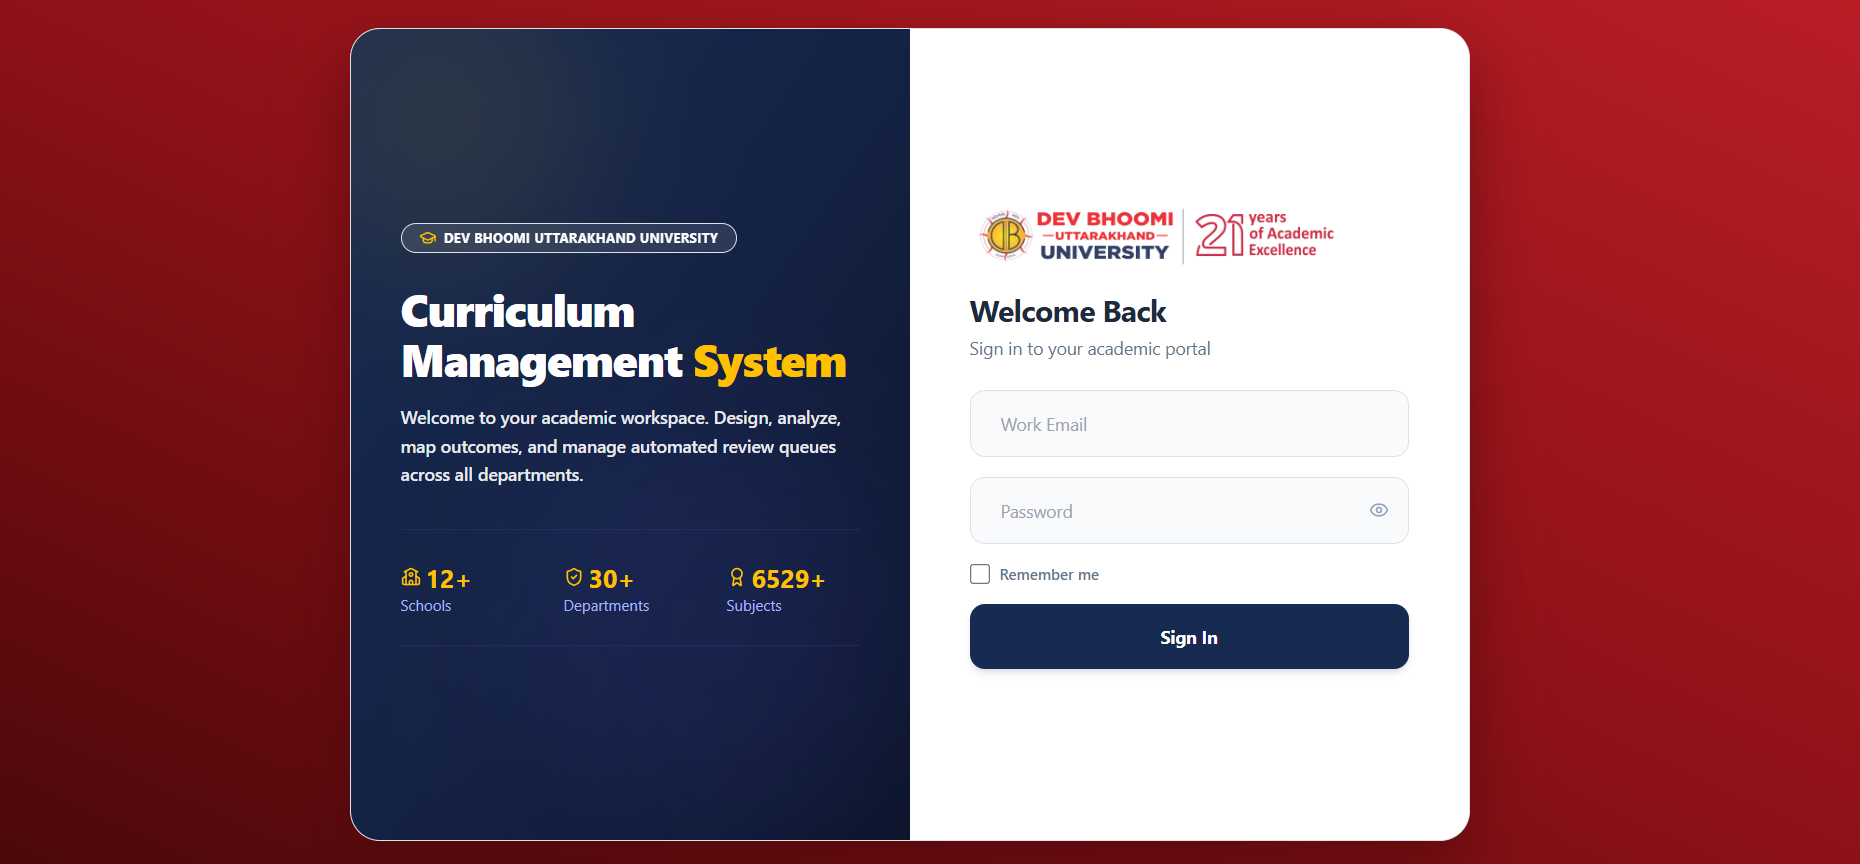
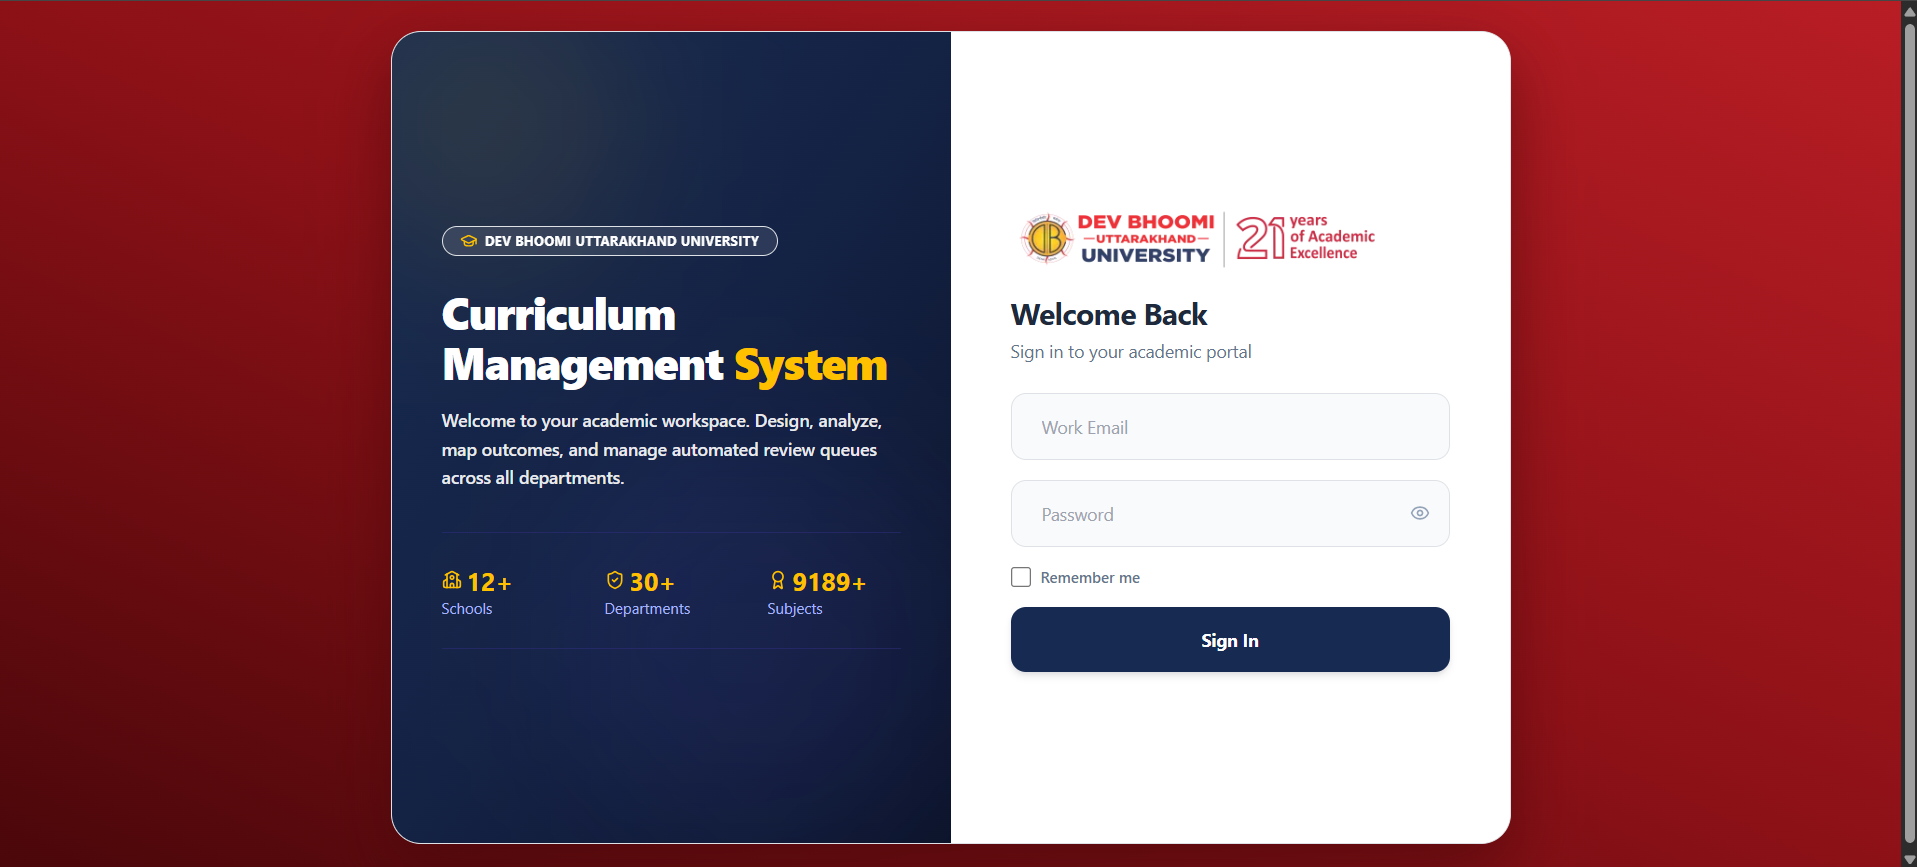
maintance 1.0

diff --git a/frontend/client/src/App.jsx b/frontend/client/src/App.jsx
@@ -55,25 +55,29 @@ const fallbackData = {
     "avatarUrl": "/images/me.jpg"
   },
   "about": {
-    "summary": "Computer Science student focused on building modern full stack applications. I enjoy creating fast, accessible UIs backed by clean APIs and well structured data models.",
+    "summary": "Computer Science student and Full Stack Developer with hands-on experience building and maintaining live web platforms. I work across React, Node.js, PHP, WordPress, and MySQL, with a focus on responsive UI, APIs, and reliable web applications.",
     "highlights": [
       "Hands-on experience with React, Node.js, PHP, MySQL, WordPress, and MongoDB",
-      "Strong foundation in algorithms, data structures, and system design",
-      "Interested in cloud certifications and scalable architecture"
+      "Professional experience working on live client and government web platforms",
+      "Strong foundation in algorithms, data structures, APIs, and scalable web architecture"
     ]
   },
   "techStack": [
-    "Node.js",
+    "JavaScript",
     "React",
+    "Node.js",
+    "Express.js",
     "MongoDB",
-    "Express",
     "PHP",
     "MySQL",
     "WordPress",
+    "HTML5",
+    "CSS3",
     "Tailwind CSS",
-    "Vite",
-    "Mongoose",
-    "GitHub"
+    "Docker",
+    "Redis",
+    "Kafka",
+    "Socket.IO"
   ],
   "skills": [
     {
@@ -118,7 +122,7 @@ const fallbackData = {
     },
     {
       "name": "Python",
-      "level": 80,
+      "level": 70,
       "category": "CMS & Core"
     },
     {
@@ -135,11 +139,17 @@ const fallbackData = {
       "start": "June 2026",
       "end": "August 2026",
       "bullets": [
-        "Contributed to full stack development for live government and client web platforms, including USAME",
+        "Contributed to front-end and back-end development for live government and client web platforms, including USAME.",
         "Built responsive UI components, customized WordPress themes, and integrated secure payment processing.",
         "Performed end-to-end UI testing, QA, bug fixing, and collaborated with senior developers on deployment updates."
       ],
-      "tech": ["React", "PHP", "WordPress", "MySQL"]
+      "tech": [
+        "PHP",
+        "WordPress",
+        "MySQL",
+        "JavaScript",
+        "CSS"
+      ]
     },
     {
       "title": "Social Internship",
@@ -152,7 +162,11 @@ const fallbackData = {
         "Collaborated with teachers to build a positive learning environment",
         "Provided one on one guidance for study plans and career goals"
       ],
-      "tech": ["Teaching", "Mentorship", "Chemistry"]
+      "tech": [
+        "Teaching",
+        "Mentorship",
+        "Chemistry"
+      ]
     }
   ],
   "education": [
@@ -199,8 +213,8 @@ const fallbackData = {
       ],
       "image": "/images/adhyanai.jpg",
       "links": {
-        "demo": "https://adhyan-ai.onrender.com/",
-        "repo": "https://github.com/HacktheWinter/ADHYAN.AI"
+        "demo": "https://adhyanai.tech/",
+        "repo": ""
       }
     },
     {
@@ -231,7 +245,7 @@ const fallbackData = {
       "slug": "curriculum-management-system",
       "description": "Institutional academic workflow & curriculum management platform with 4-tier scoped RBAC, multi-stage syllabus approvals, and NBA/NAAC PO-PSO compliance tracking.",
       "highlights": [
-        "Production deployment across 12+ Schools, 30+ Departments, and 6,500+ Subjects at DBUU",
+        "Production deployment across 12+ Schools, 30+ Departments, and 9,189+ Subjects at DBUU",
         "4-tier scoped authorization tree: SuperAdmin -> Dean (School) -> HOD (Dept/Year) -> Faculty (Subject)",
         "Multi-stage approval state machine: Draft -> Submitted -> HOD Review -> Dean Approval -> Published",
         "Automated PO/PSO document mapping, revision history logs, and role-based analytical dashboards"
@@ -250,7 +264,7 @@ const fallbackData = {
       "image": "/images/cms_dbuu.png",
       "links": {
         "demo": "https://cms.dbuu.ac.in/",
-        "repo": "https://github.com/Syllabus2-0/schoolsofdbuu"
+        "repo": ""
       }
     },
     {
@@ -374,7 +388,7 @@ const fallbackData = {
         "Contributed to front-end and back-end development for live government and client web platforms.",
         "Developed responsive UI components and implemented feature enhancements across both client-facing site and admin panel.",
         "Customized WordPress themes and plugins to meet project requirements.",
-        "Integrated the ICICI Bank Payment Gateway for secure online payment processing.",
+        "Integrated the Payment Gateway for secure online payment processing.",
         "Performed UI testing, bug fixing, quality assurance, and cross-browser compatibility testing.",
         "Collaborated with senior developers to implement new features, resolve issues, and deploy project updates.",
         "Contributed to the development and maintenance of the Uttarakhand State Authority for Minority Education (USAME) website: https://usame.uk.gov.in/"
@@ -412,8 +426,20 @@ const fallbackData = {
       "project": "Eventory",
       "title": "Zero-Overbooking Concurrency: Distributed Mutexes with Redis Lua & Kafka",
       "tagline": "Handling 100,000+ requests/sec on single seats without database race conditions or deadlocks.",
-      "metrics": ["100k req/s Scale", "Zero Overbooking Guarantee", "500 Concurrent Test Burst", "5-Min TTL Mutex"],
-      "tags": ["Redis", "Lua Scripts", "Kafka", "Socket.IO", "Node.js", "Docker"],
+      "metrics": [
+        "100k req/s Scale",
+        "Zero Overbooking Guarantee",
+        "500 Concurrent Test Burst",
+        "5-Min TTL Mutex"
+      ],
+      "tags": [
+        "Redis",
+        "Lua Scripts",
+        "Kafka",
+        "Socket.IO",
+        "Node.js",
+        "Docker"
+      ],
       "problem": "When popular events go on sale, thousands of users attempt to purchase the exact same seat at the exact same millisecond. Traditional check-then-update SQL/MongoDB queries create race conditions where multiple requests pass the availability check before any write is committed, leading to catastrophic double bookings.",
       "architecture": [
         "Atomic Single-Threaded Locking: Custom Lua script executes in Redis memory atomically, checking existence and setting user-bound key in one operation without CPU context switching.",
@@ -429,8 +455,20 @@ const fallbackData = {
       "project": "ADHYAN.AI",
       "title": "Smart Classroom AI: Source-Grounded OCR Grading, Device Binding & Rotating HMAC Tokens",
       "tagline": "End-to-end AI assessment engine automating assessment generation, subjective grading, and anti-proxy attendance.",
-      "metrics": ["Gemini 2.5 Flash Pipeline", "70% Legibility OCR Guard", "Slot-Based Device UUIDs", "WebSocket Rotating HMAC QR"],
-      "tags": ["Gemini 2.5 Flash", "RAG", "GridFS", "WebSockets", "HMAC-SHA256", "React 18"],
+      "metrics": [
+        "Gemini 2.5 Flash Pipeline",
+        "70% Legibility OCR Guard",
+        "Slot-Based Device UUIDs",
+        "WebSocket Rotating HMAC QR"
+      ],
+      "tags": [
+        "Gemini 2.5 Flash",
+        "RAG",
+        "GridFS",
+        "WebSockets",
+        "HMAC-SHA256",
+        "React 18"
+      ],
       "problem": "Digital education platforms struggle with three massive bottlenecks: teacher burnout from manual grading, unreliable hallucinating AI evaluators lacking source grounding, and rampant cheating (credential sharing & QR screenshot attendance proxies).",
       "architecture": [
         "RAG-Grounded Assessment Engine: Extracts structured content from uploaded PDF lecture notes via Gemini 2.5 Flash, generating tiered MCQs and subjective test papers strictly constrained to source material.",
@@ -446,8 +484,21 @@ const fallbackData = {
       "project": "Curriculum Management System (CMS)",
       "title": "Enterprise Academic Workflow: 4-Tier Scoped RBAC & Multi-Stage State Machines",
       "tagline": "Institutional academic workflow platform managing curriculum creation, NBA/NAAC PO-PSO compliance, and multi-tier approval queues.",
-      "metrics": ["12+ Schools Live", "30+ Departments", "6,500+ Subjects Managed", "4-Tier Scoped RBAC"],
-      "tags": ["React 19", "TypeScript", "Node.js", "Express 5", "MongoDB", "Cloudinary", "JWT"],
+      "metrics": [
+        "12+ Schools Live",
+        "30+ Departments",
+        "9,189+ Subjects Managed",
+        "4-Tier Scoped RBAC"
+      ],
+      "tags": [
+        "React 19",
+        "TypeScript",
+        "Node.js",
+        "Express 5",
+        "MongoDB",
+        "Cloudinary",
+        "JWT"
+      ],
       "problem": "Universities with multiple schools and departments struggle with fragmented syllabus drafting, decentralized approval bottlenecks, and data leakage across unauthorized faculty or department scopes during accreditation audits (NBA/NAAC).",
       "architecture": [
         "Hierarchical Academic Domain Model: Enforces strict encapsulation across School -> Department -> Program -> Subject.",
@@ -463,8 +514,21 @@ const fallbackData = {
       "project": "EcoCommute",
       "title": "Multimodal Routing: Predicting Carbon Footprint & Traffic Delays with Flask ML",
       "tagline": "AI-enabled sustainable transport planner optimizing for low-emission and time-efficient multimodal routes.",
-      "metrics": ["1st Place Hackathon Winner", "Multimodal Optimization", "Real-Time Carbon API", "Flask ML Microservice"],
-      "tags": ["Python", "Flask", "scikit-learn", "React", "Leaflet", "OpenRouteService", "MongoDB"],
+      "metrics": [
+        "1st Place Hackathon Winner",
+        "Multimodal Optimization",
+        "Real-Time Carbon API",
+        "Flask ML Microservice"
+      ],
+      "tags": [
+        "Python",
+        "Flask",
+        "scikit-learn",
+        "React",
+        "Leaflet",
+        "OpenRouteService",
+        "MongoDB"
+      ],
       "problem": "Standard navigation engines optimize exclusively for time or distance, ignoring vehicle emission intensity, atmospheric weather hazards, and environmental impact.",
       "architecture": [
         "Composite Geospatial Routing Engine: Integrates OpenRouteService heuristics with live OpenWeather data to calculate multimodal travel alternatives (transit, carpooling, cycling).",
@@ -477,7 +541,7 @@ const fallbackData = {
     }
   ],
   "contact": {
-    "address": "Police Family Quarters, Raipur Road, Dehradun",
+    "address": "Dehradun, Uttarakhand, India",
     "email": "amansinghkunwar07@gmail.com",
     "phone": "+91 7983932346"
   }

diff --git a/frontend/client/src/components/ResumeModal.jsx b/frontend/client/src/components/ResumeModal.jsx
@@ -25,7 +25,7 @@ Computer Science student focused on building modern full stack web applications.
 ## 🚀 FEATURED PROJECTS
 
 ### Curriculum Management System (CMS) | Live: https://cms.dbuu.ac.in/
-- Institutional academic workflow & curriculum platform deployed across 12+ Schools, 30+ Departments, and 6,500+ Subjects at DBUU.
+- Institutional academic workflow & curriculum platform deployed across 12+ Schools, 30+ Departments, and 9,189+ Subjects at DBUU.
 - Built with React 19, TypeScript, Node.js, Express 5, MongoDB, Cloudinary, and JWT.
 - Implemented 4-tier scoped RBAC (SuperAdmin -> Dean -> HOD -> Faculty) and multi-stage syllabus approval state machine.
 
